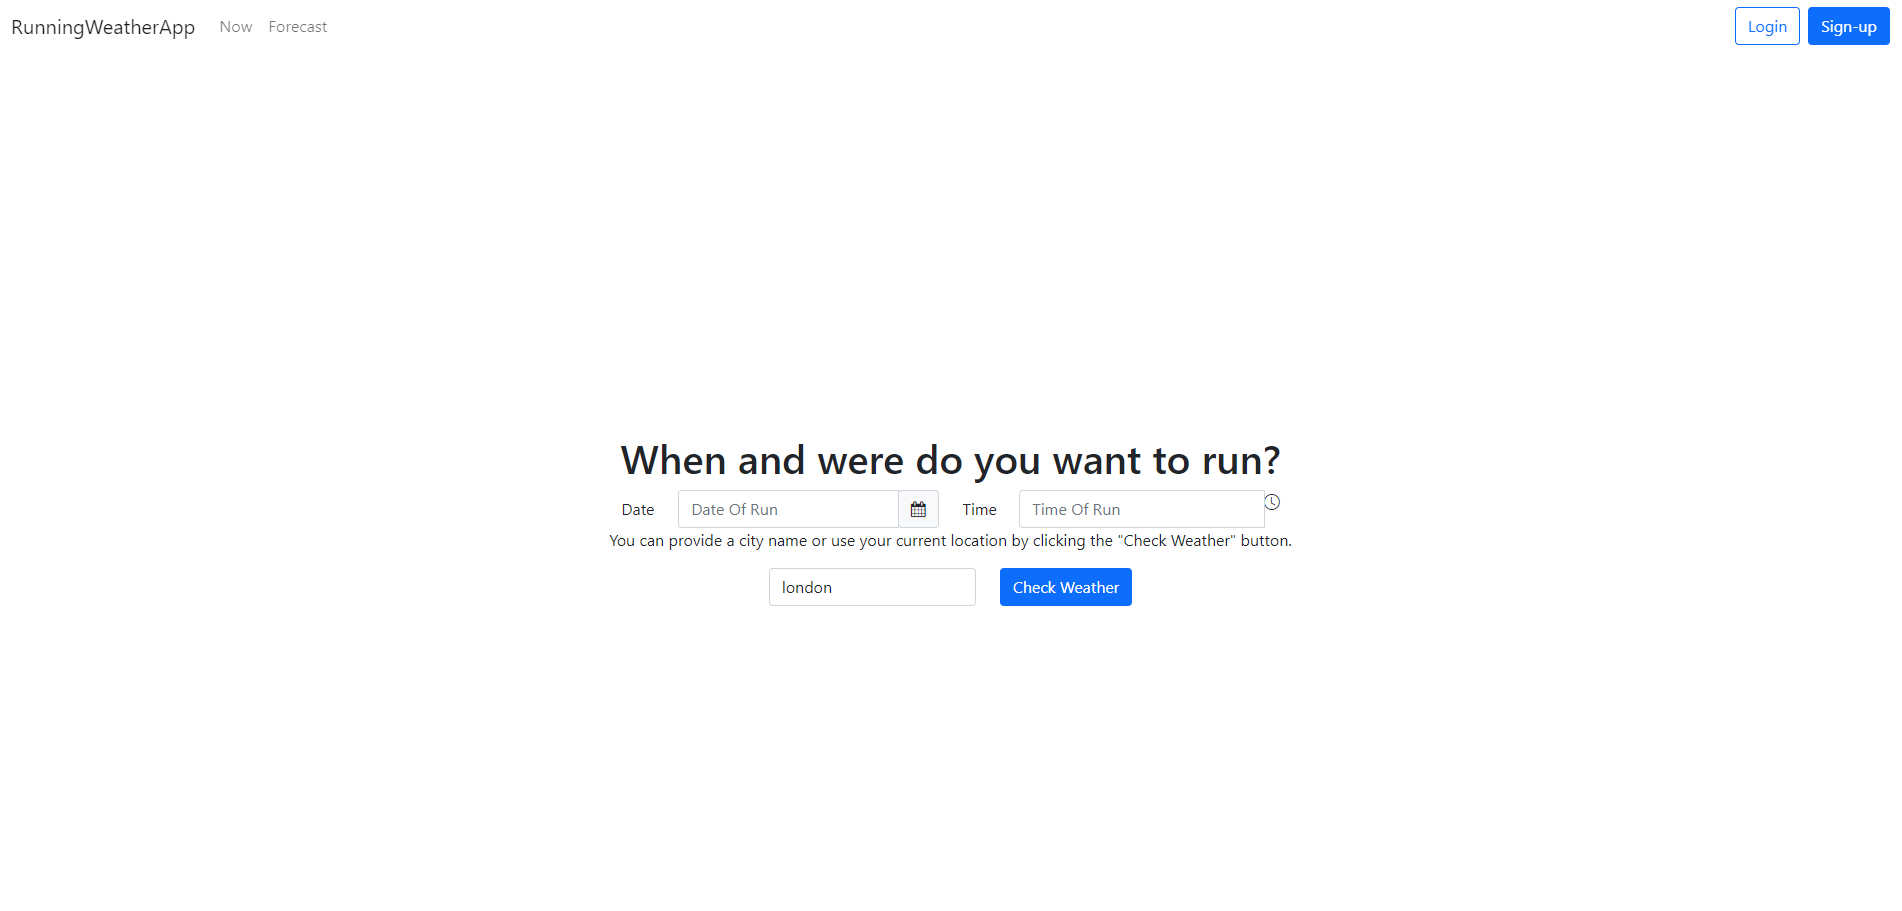
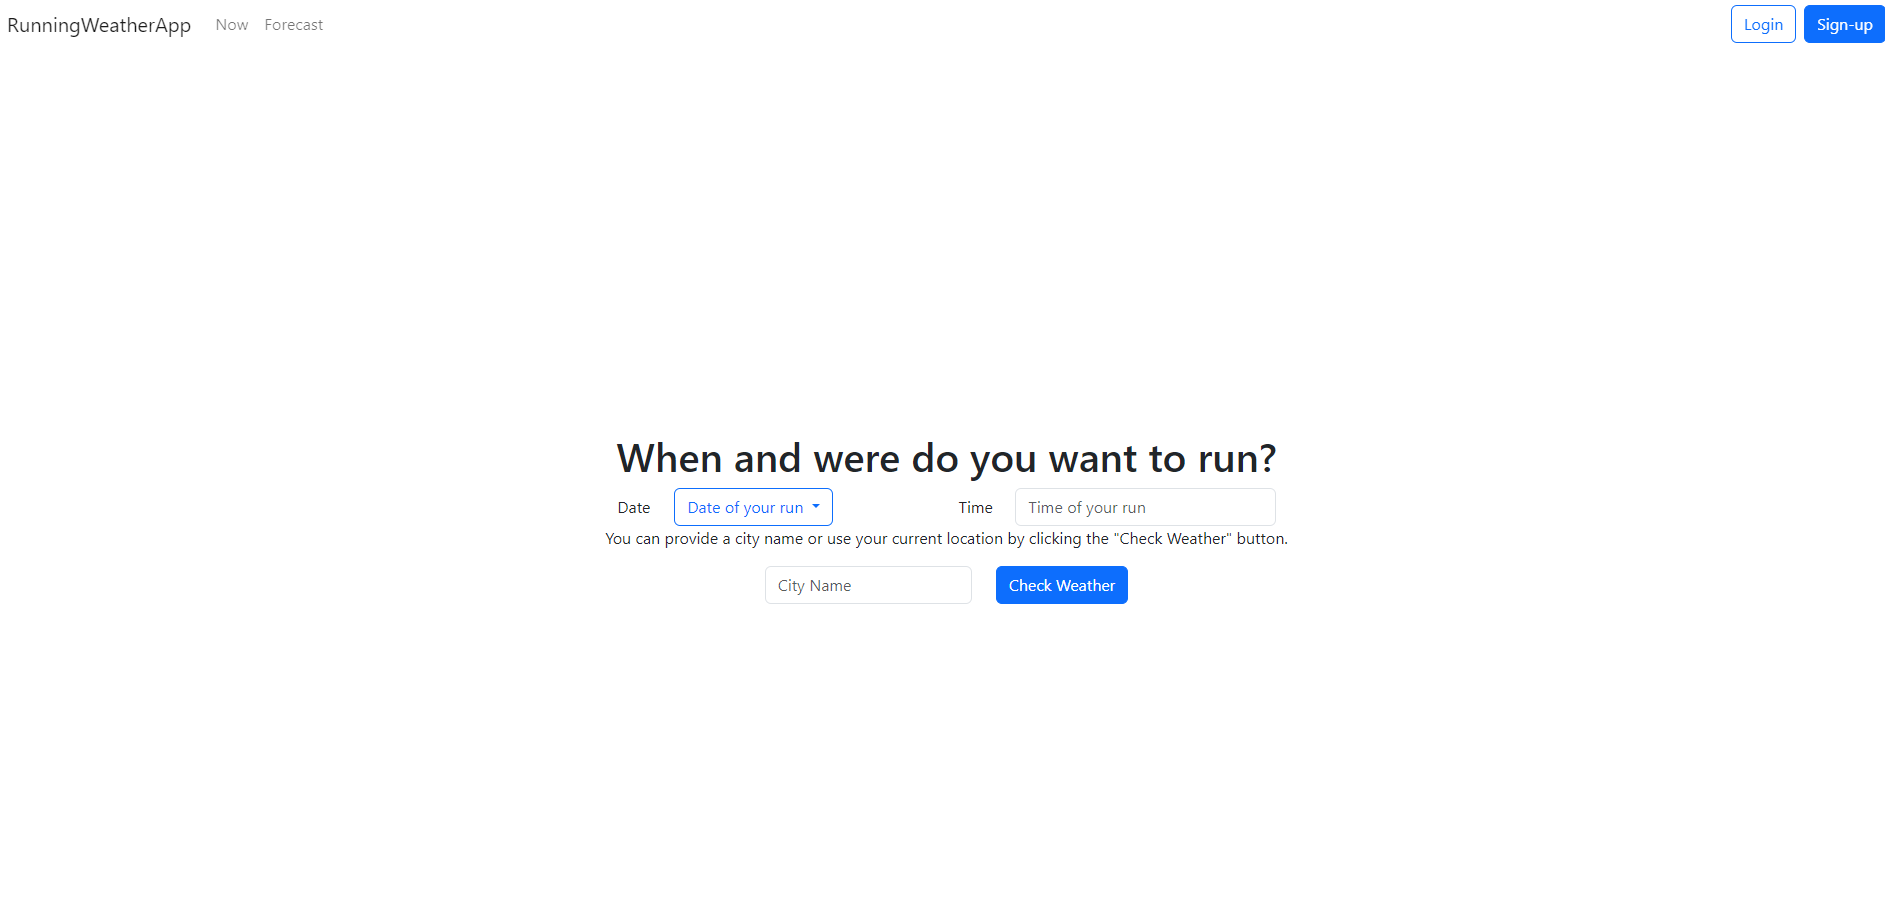
update readme

diff --git a/README.md b/README.md
@@ -4,5 +4,9 @@ WebApp based on openweathermap API - Work in Progress
 ![Alt text](./github_images/main_page.png)
 ## Forecast Page
 ![Alt text](./github_images/forecast_page.png)
+## Date picker
+![Alt text](./github_images/forecast_page_date.png)
+## Time picker
+![Alt text](./github_images/forecast_page_time.png)
 ## Example of use
 ![Alt text](./github_images/weather_in_london.png)
